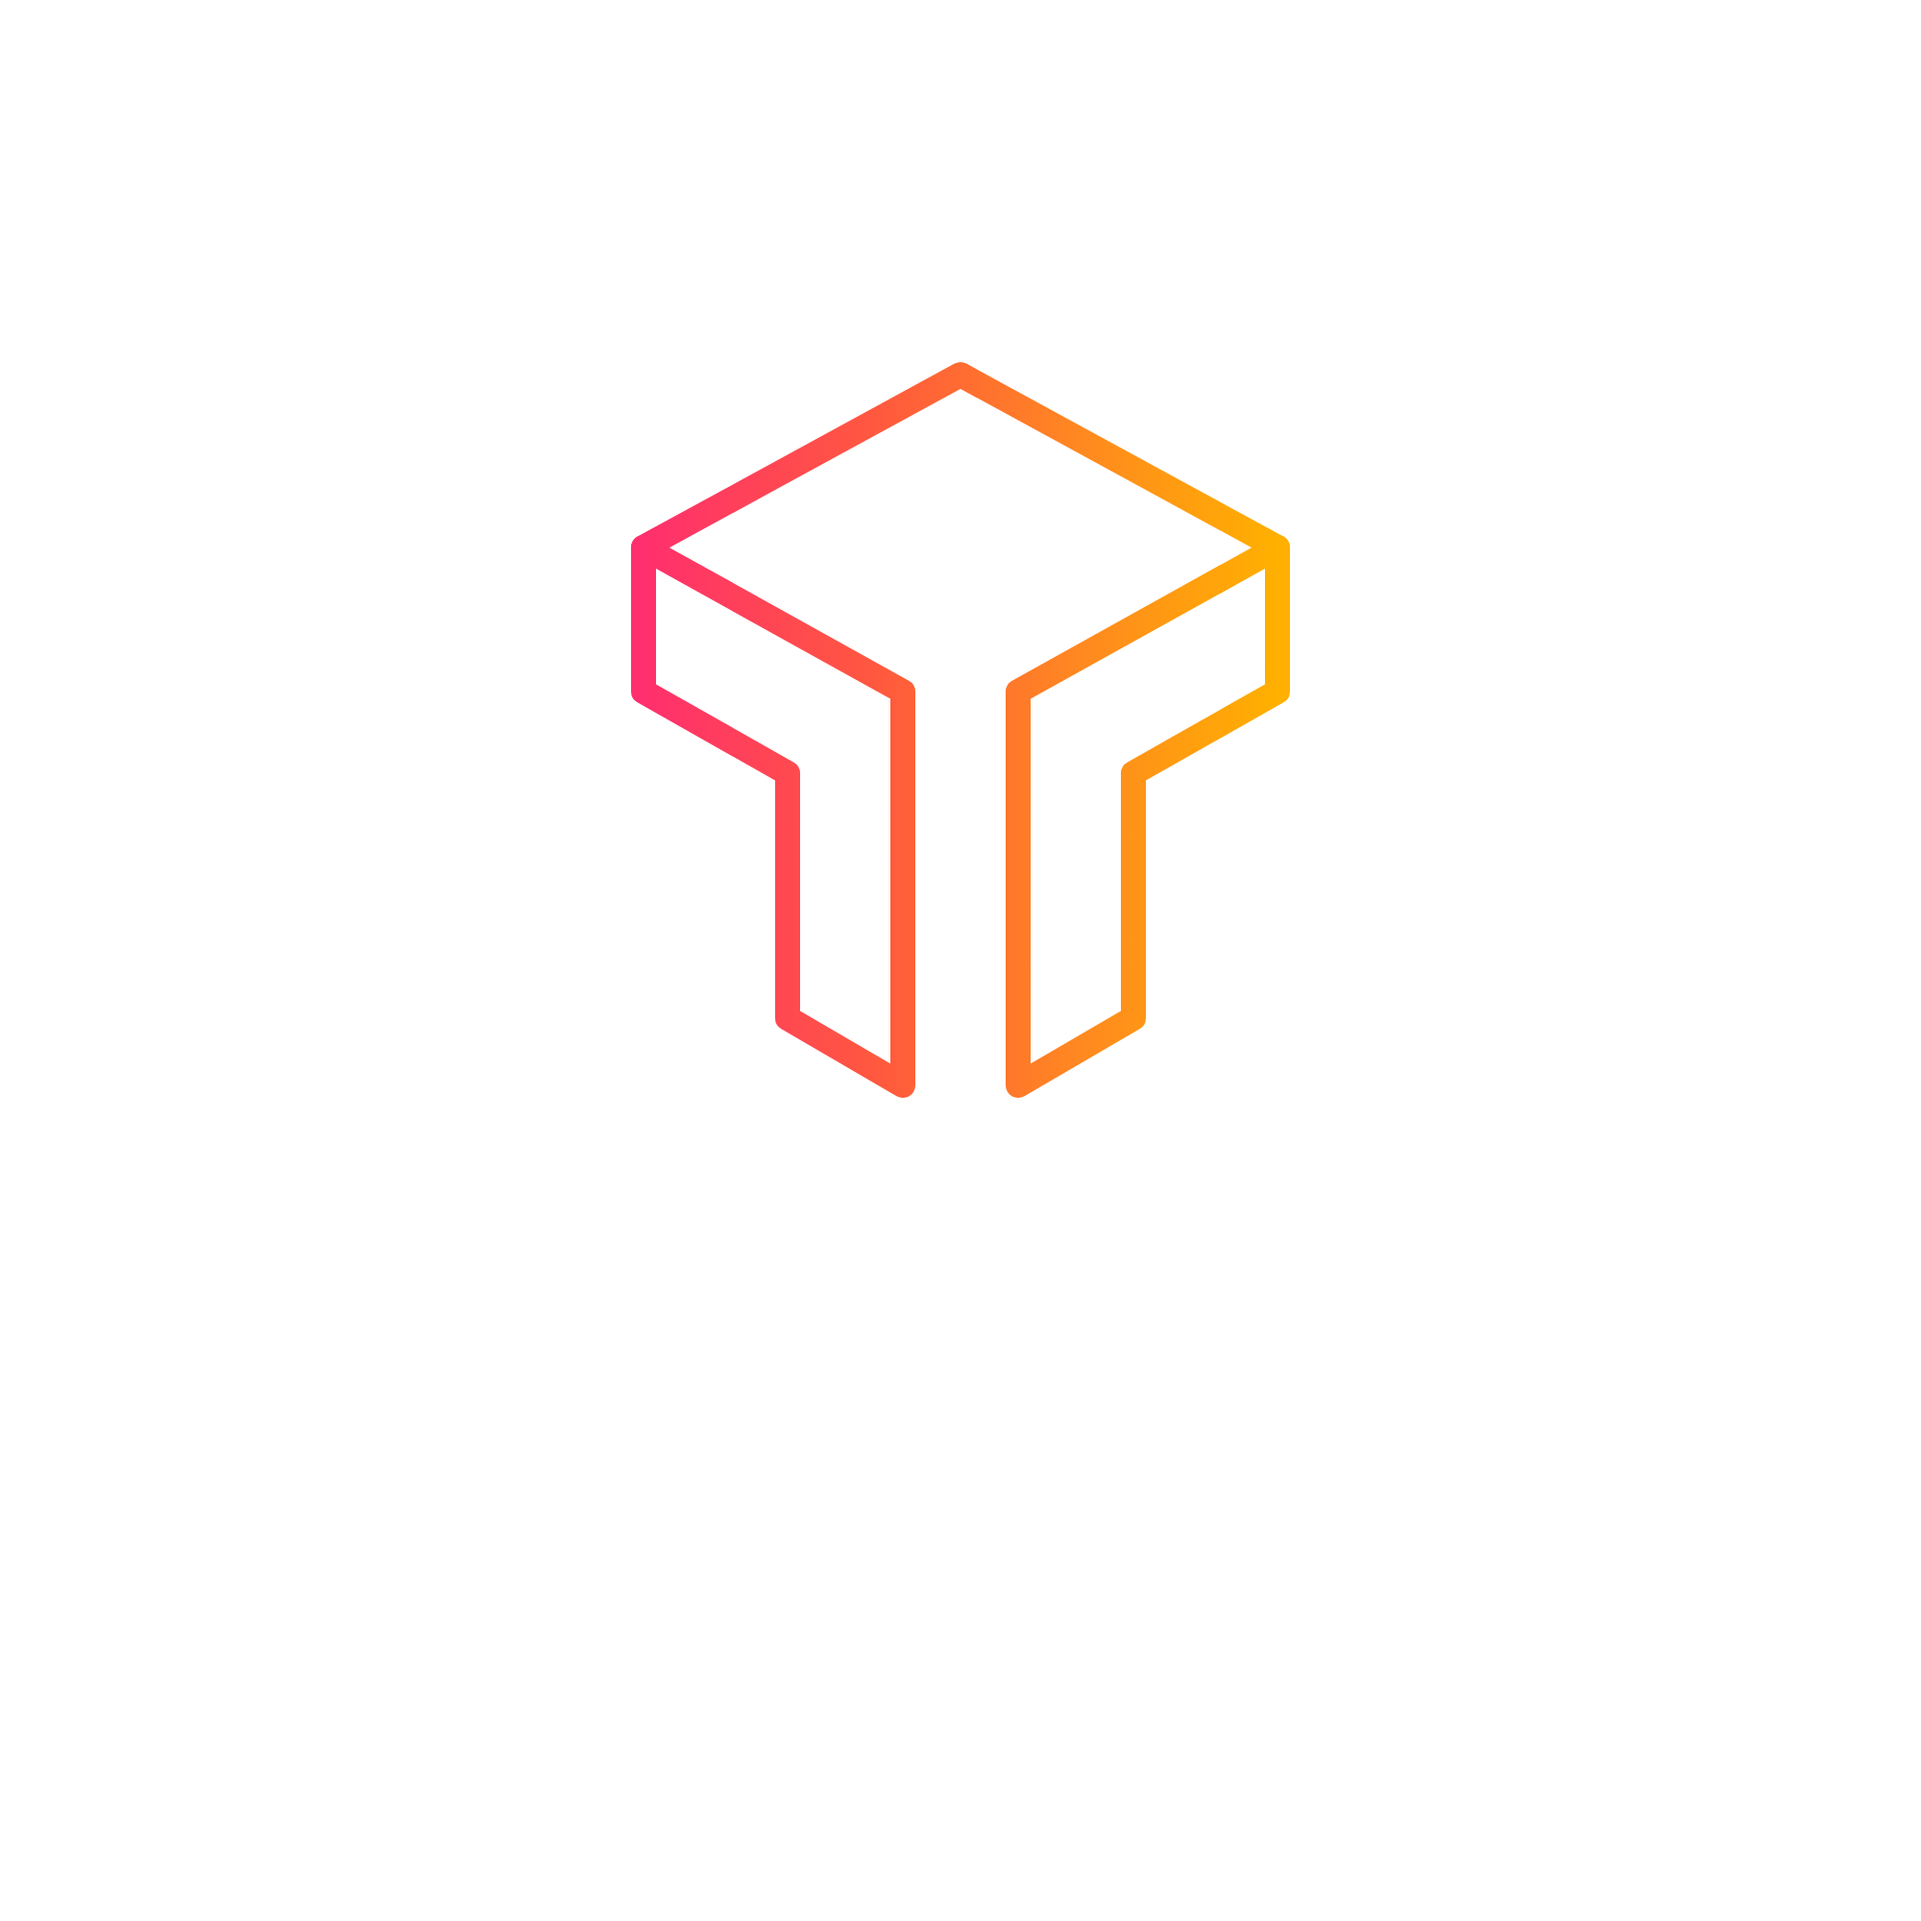
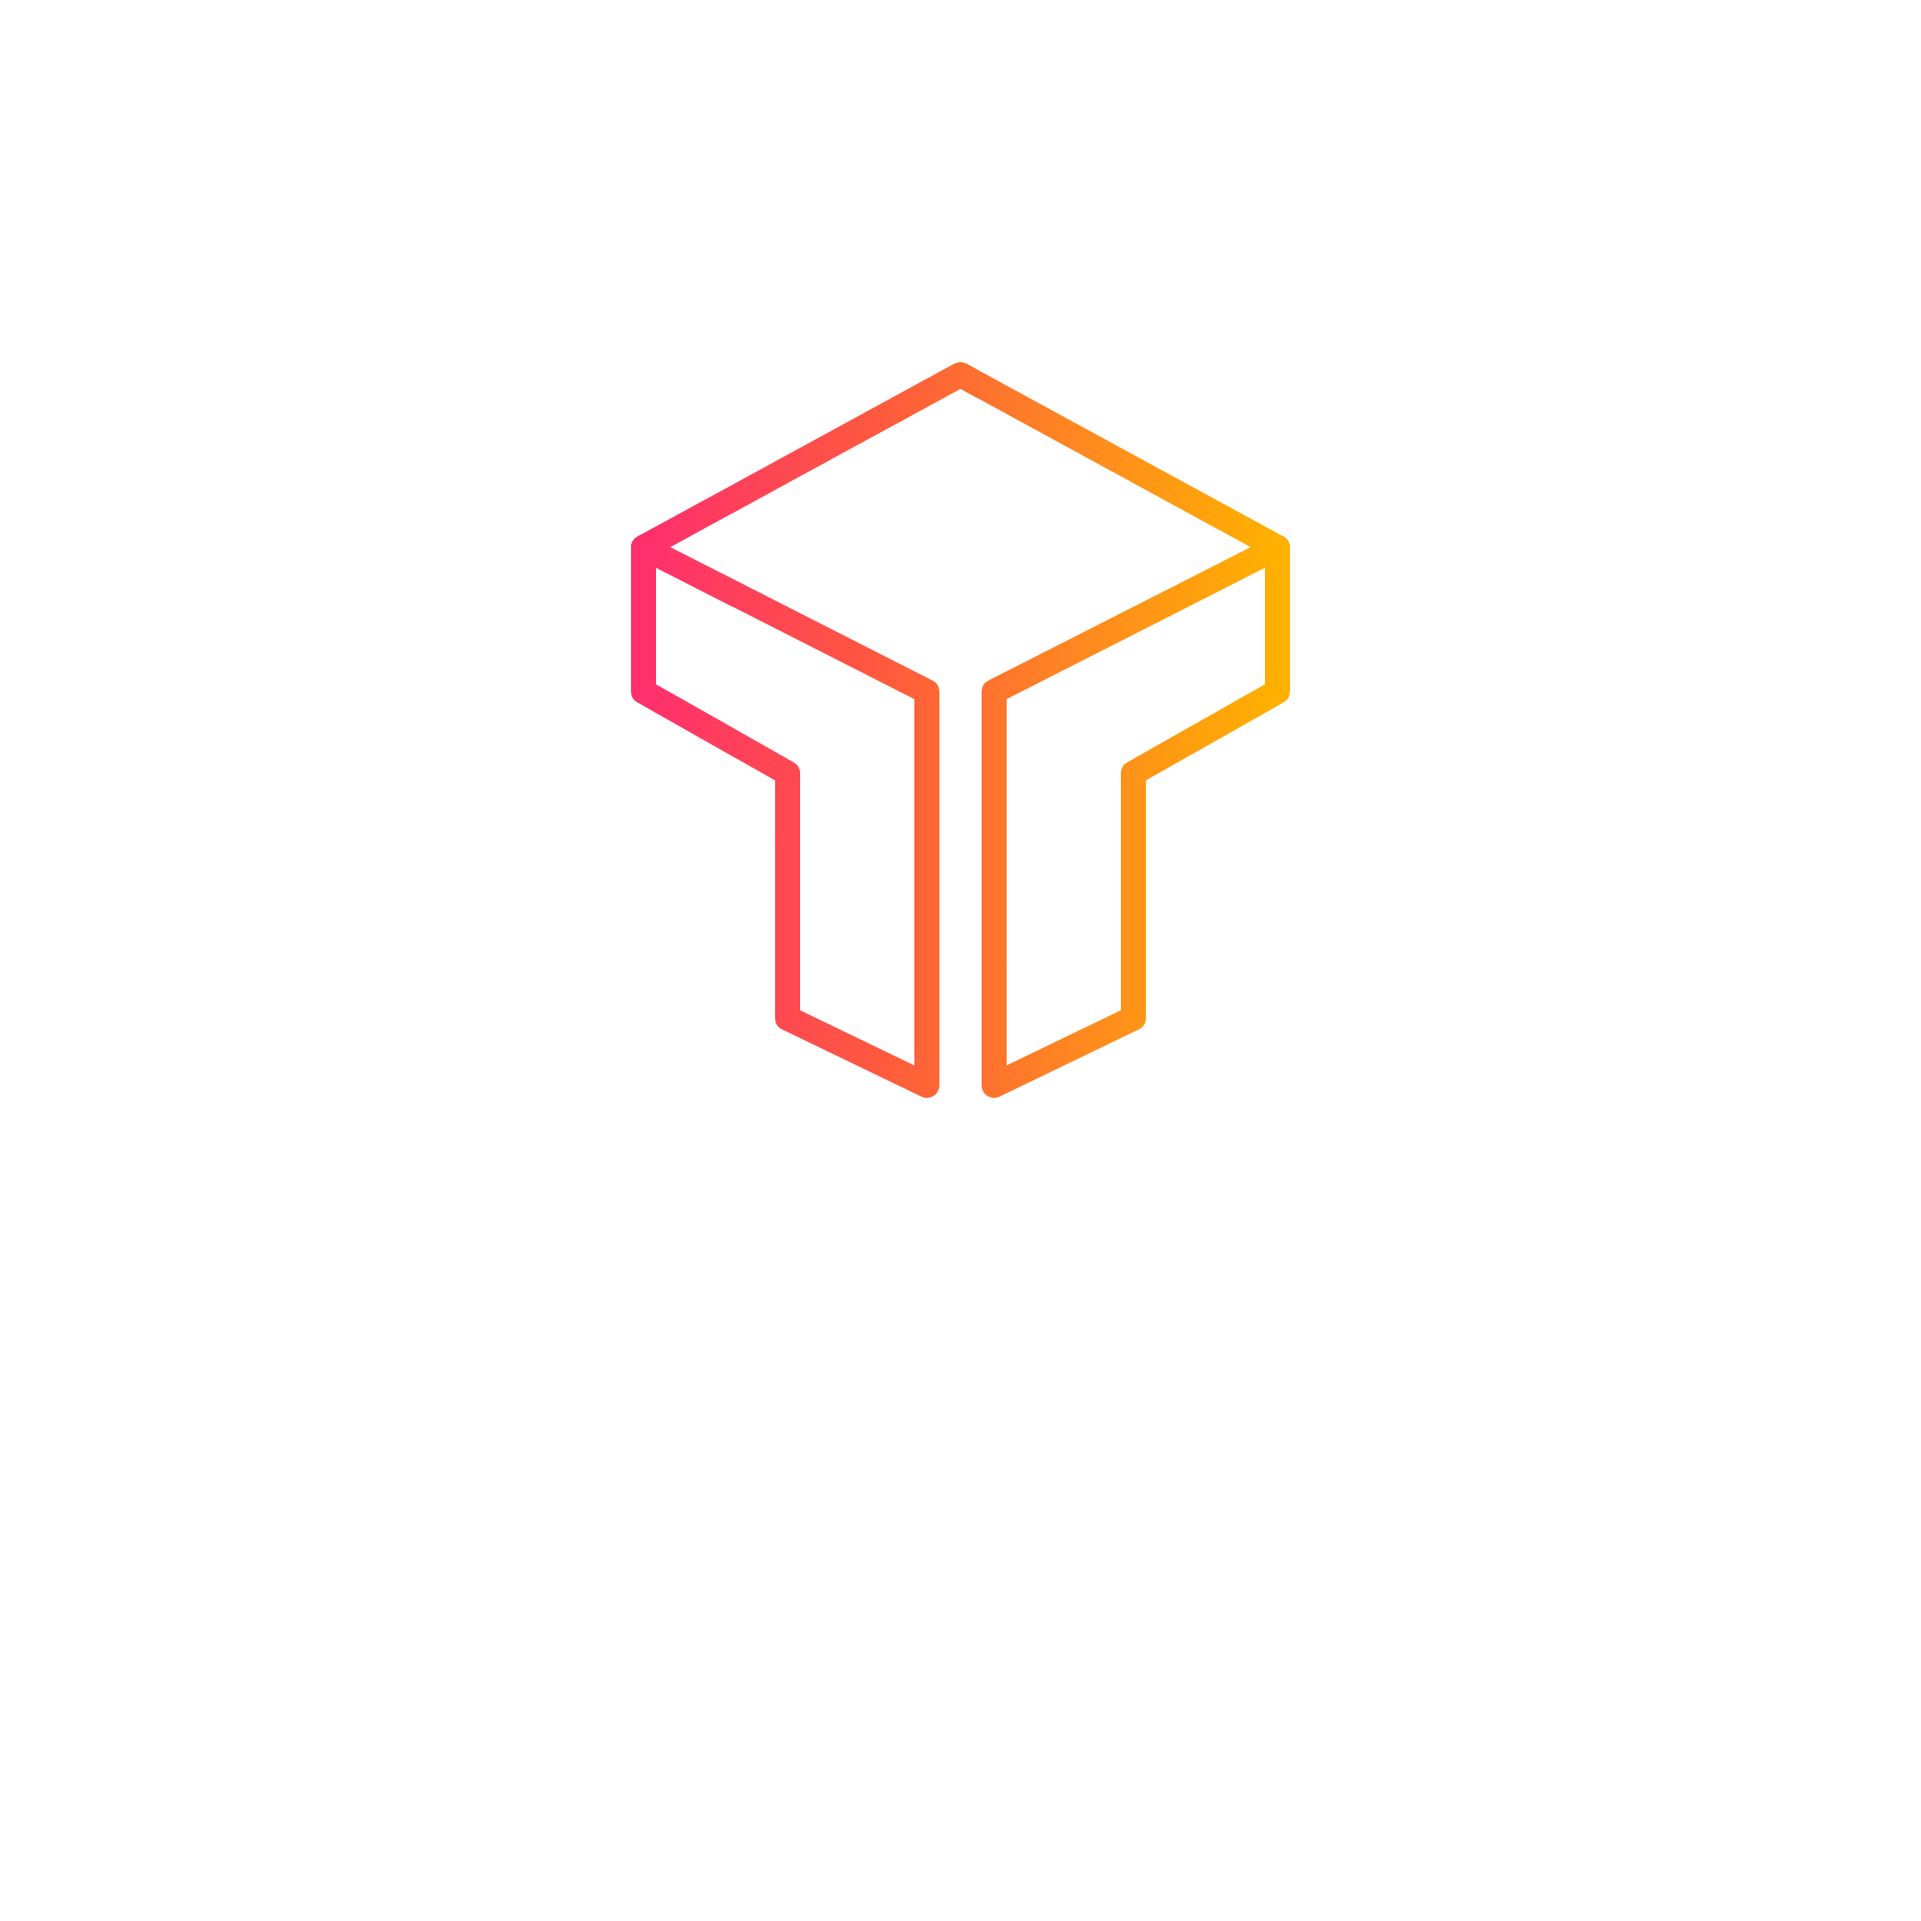
Tighten gap between T legs (120->70px)

Changed region(s): [[0.372, 0.31, 0.589, 0.589], [0.558, 0.31, 0.62, 0.341]]

diff --git a/final.html b/final.html
@@ -7,6 +7,6 @@ img{width:640px;max-width:92vw;height:auto}
 .dl a{color:#FF6A00;text-decoration:none;border:1px solid rgba(255,106,0,.4);border-radius:99px;padding:9px 20px;margin:0 6px;font-size:12px;display:inline-block}
 </style></head><body>
 <div class="wrap">
-  <img src="timbr-final.svg?v=3" alt="TIMBR logo">
-  <div class="dl"><a href="timbr-final.svg?v=3" download>SVG (vector)</a><a href="timbr-final-2000.png?v=3" download>PNG 2000×2000</a></div>
+  <img src="timbr-final.svg?v=4" alt="TIMBR logo">
+  <div class="dl"><a href="timbr-final.svg?v=4" download>SVG (vector)</a><a href="timbr-final-2000.png?v=4" download>PNG 2000×2000</a></div>
 </div></body></html>
